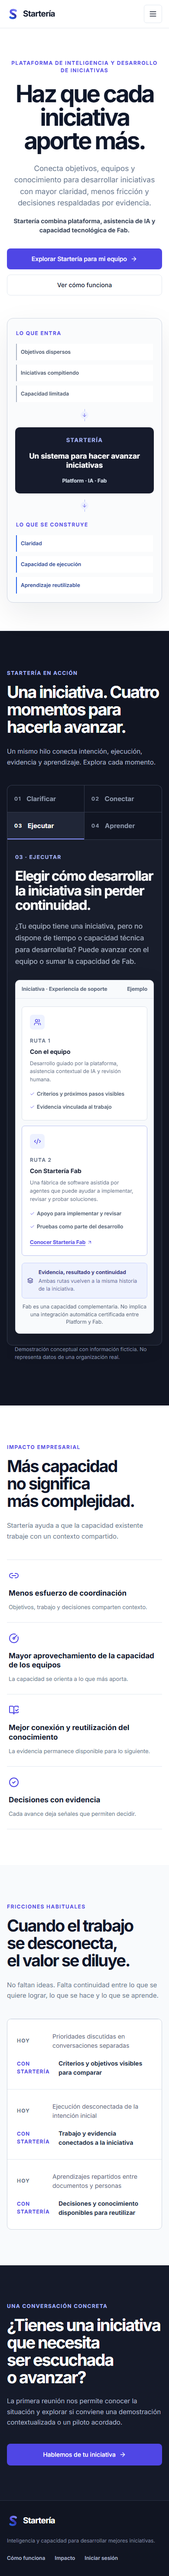
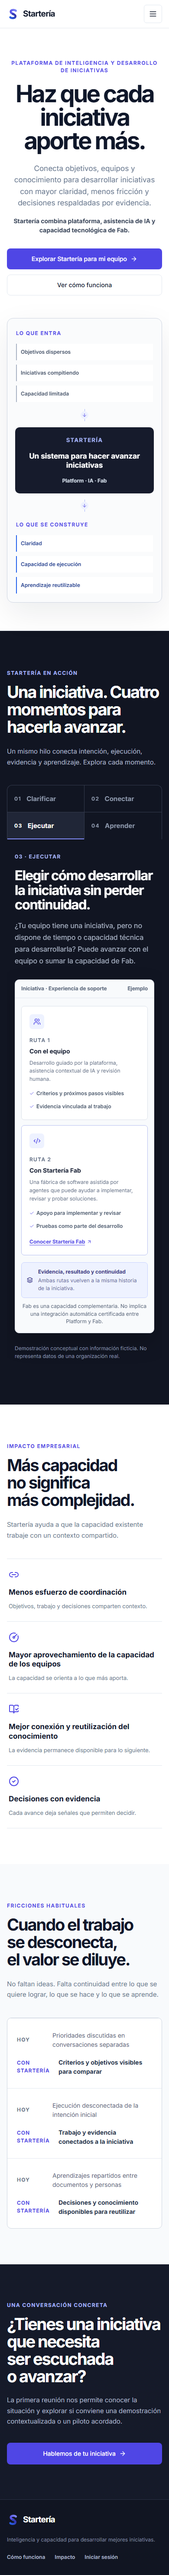
fix(landing): flatten protagonist demo composition

diff --git a/front/src/app/components/landing/landing.css b/front/src/app/components/landing/landing.css
@@ -78,7 +78,7 @@
 .story-tabs button[aria-selected='true']::after { background: #818cf8; }
 .story-tabs button span { font-size: 12px; font-weight: 800; letter-spacing: .12em; }
 .story-tabs button strong { font-size: 15px; }
-.story-panel { display: grid; grid-template-columns: .66fr 1.34fr; gap: 48px; min-height: 510px; padding: 46px; border: 1px solid #343b4d; border-radius: 0 0 12px 12px; background: #181d2b; }
+.story-panel { display: grid; grid-template-columns: .66fr 1.34fr; gap: 48px; min-height: 510px; padding: 46px 0; }
 .story-panel__copy { align-self: center; animation: landing-rise .42s ease both; }
 .story-panel__copy h3 { margin: 16px 0 18px; font-size: clamp(28px, 3.5vw, 44px); font-weight: 700; letter-spacing: -.045em; line-height: 1.08; }
 .story-panel__copy p { margin: 0; color: #aeb8ca; font-size: 16px; line-height: 1.7; }

diff --git a/docs/implementation/public-landing/evidence/KAN-255/README.md b/docs/implementation/public-landing/evidence/KAN-255/README.md
@@ -64,5 +64,5 @@ The after captures intentionally open `#fab`, so the unique product demonstratio
 | Landing Playwright E2E | PASS — 2/2; includes four viewports, repeated Fab navigation, keyboard tabs, reduced motion and horizontal overflow |
 | Lighthouse | Accessibility 100 desktop and mobile; Best Practices 96 and SEO 91. Remaining local findings are the existing unauthenticated refresh 500, missing favicon/robots/llms infrastructure and are not Landing accessibility failures. |
 | Design evidence checker | PASS |
-| Independent review | Round 1 findings resolved: approved Fab/impact copy, repeated `#fab`, minimum demo type size and outer card treatment |
+| Independent review | Rounds 1–2 resolved: approved Fab/impact copy, repeated `#fab`, minimum 12 px demo type and removal of the outer demo-card treatment |
 | Portfolio Entry full-stack Playwright | PENDING — isolated runner requires Docker Desktop, unavailable in this environment. Portfolio Entry code and `/public/start` were not modified. |
